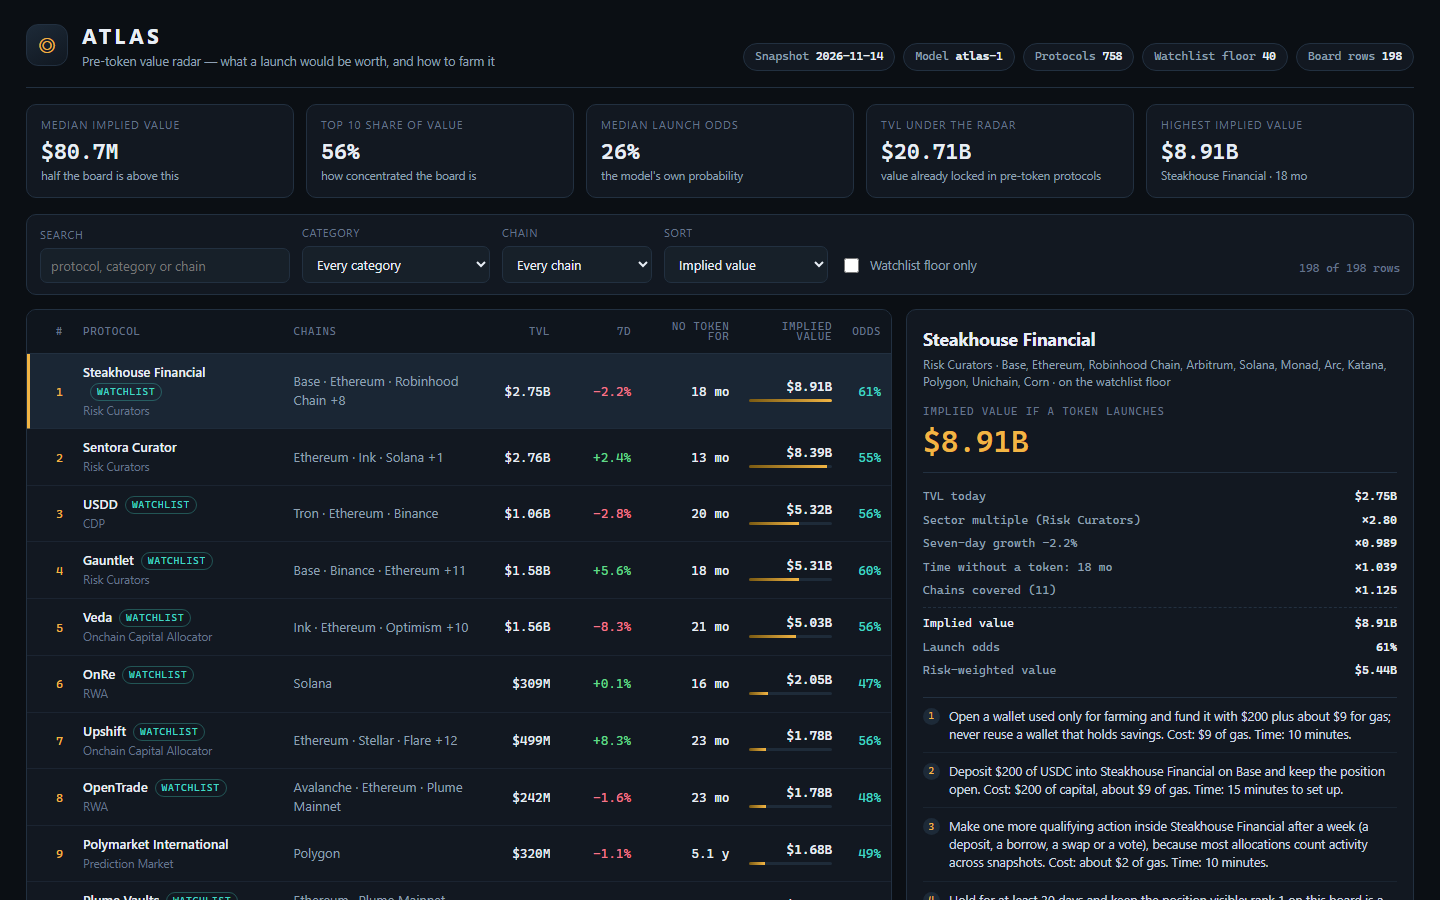
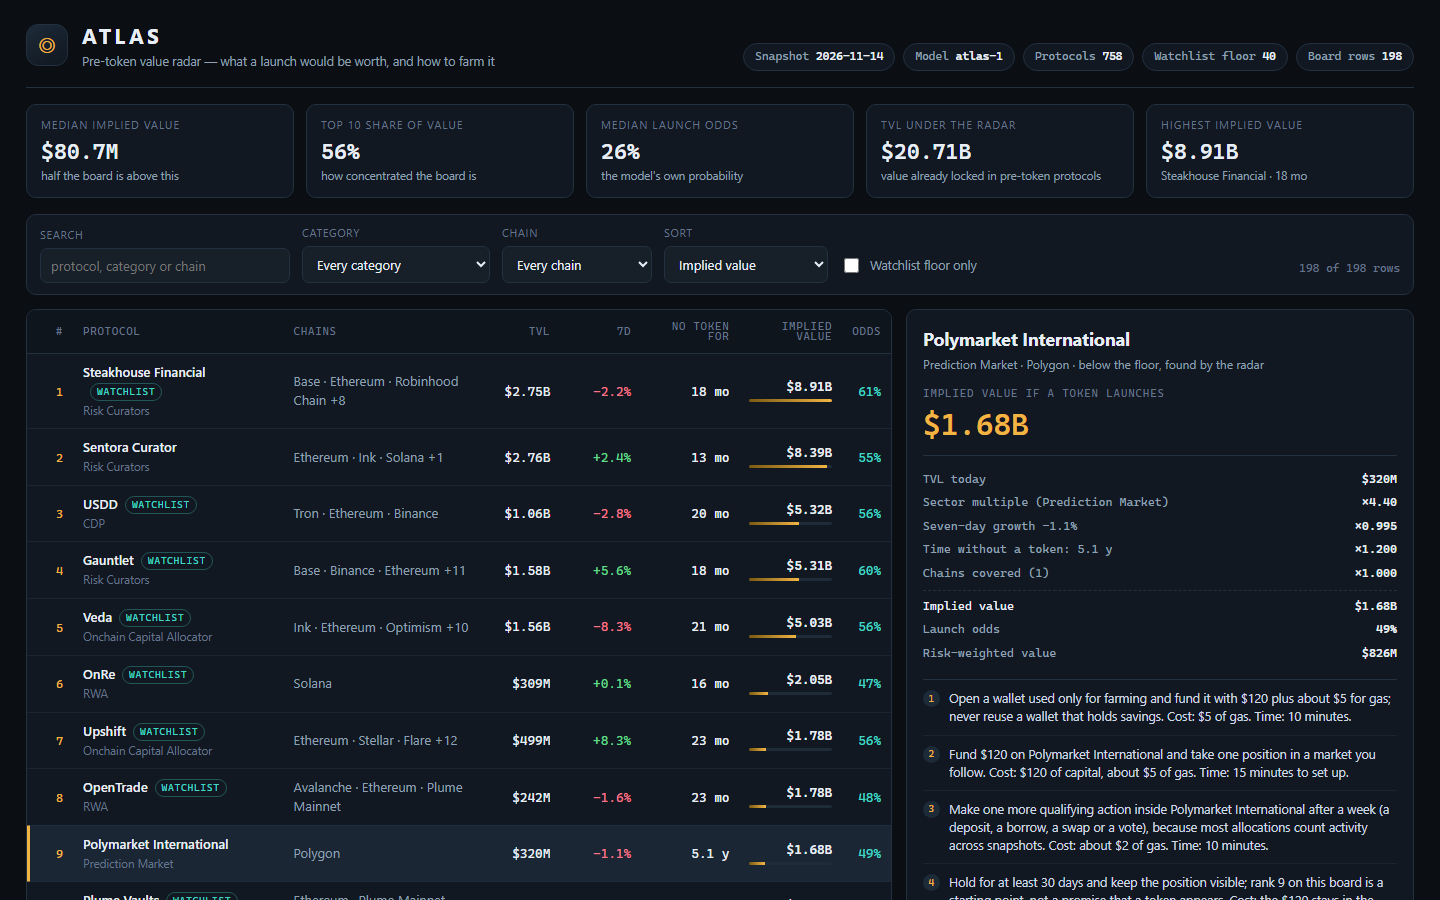
ATLAS: final screenshots, evidence and README

Changed region(s): [[0.625, 0.3733, 0.9688, 1.0]]

diff --git a/README.md b/README.md
@@ -1,0 +1,62 @@
+# ATLAS — pre-token value radar
+
+An entry for make.fun's **token-radar-01** bounty: it reads the sealed DefiLlama snapshot of 758
+protocols, works out which ones still record no token, and ranks them by what a token would be
+worth if the protocol's record stayed as it is — with the steps to farm each one.
+
+Built from scratch for this bounty. All the code, the model, the wording and the page are new;
+the only third-party file is `vendor/makefun-board.ts`, the dossier writer the bounty's scorer
+requires the entry to use, shipped byte for byte in the official kit.
+
+## Run it
+
+```sh
+mkdir -p out && MAKEFUN_OUTPUT_DIR=out node main.ts --input ../token-radar-01-kit/input/snapshot.json
+```
+
+Node 22.18 or later runs the TypeScript as it is. The program writes `out/board.json`,
+`out/data.js`, `out/dashboard/`, `out/screenshots/` and `out/dossier.json`. Two runs write the
+same bytes.
+
+## The model
+
+```
+implied value = TVL × sector multiple × growth factor × maturity factor × breadth factor
+launch odds   = logistic(bias + tvl term + growth term + months term + watchlist term)
+```
+
+| Input (from the snapshot only) | What it does |
+| --- | --- |
+| `tvl_usd` | the base: what the protocol already custodies |
+| `category` | the multiple the market pays per dollar of TVL in that sector (one table, 30 sectors, no name special-cased) |
+| `change_7d` | the growth factor, clamped to −60…+150% and weighted at 0.5 |
+| `listed_at` | the maturity factor, from 0.88 at launch to 1.20 after 36 months without a token |
+| `chains` | the breadth factor, +2.5% per extra chain, capped at five |
+
+Launch odds come from the same figures, so a large protocol that may never launch and a smaller
+one already positioning for a launch are both visible. Rows carry both the implied value (which
+is what the board ranks by) and a risk-weighted value (implied × odds).
+
+Farm plans are generated per protocol from its own record — category, chains, TVL and age — into
+five steps that each state a cost and a time. No list of names is written by hand anywhere.
+
+## The page
+
+`dashboard/` is a static page with no framework and no network: `index.html`, `app.css` and
+`app.js` read `data.js`, written beside the dashboard by `main.ts`. It has a sortable board, a
+search, a category filter, a chain filter and a watchlist toggle; a detail panel recomputes each
+row's implied value from the same multipliers the board carries and shows the farm plan. The view
+is addressable: `?slug=…`, `?cat=…`, `?chain=…`, `?sort=implied|odds|weighted|tvl|growth|age`,
+`?watch=1`, `?q=…`.
+
+## The gate
+
+`main.ts` refuses to write a board the gate would reject: it checks coverage of the 40-slug
+watchlist, ranks 1..n, non-increasing implied values, integer values inside the cap, 3–12 farm
+steps of 20–600 characters, and a board that actually ranks something. The dossier is written last,
+by the vendored library, so the scorer's rebuild matches byte for byte.
+
+## What is not here
+
+No wallet, no API key, no submission, no signed message. This repository is a prepared entry: it
+has not been entered in the competition.
